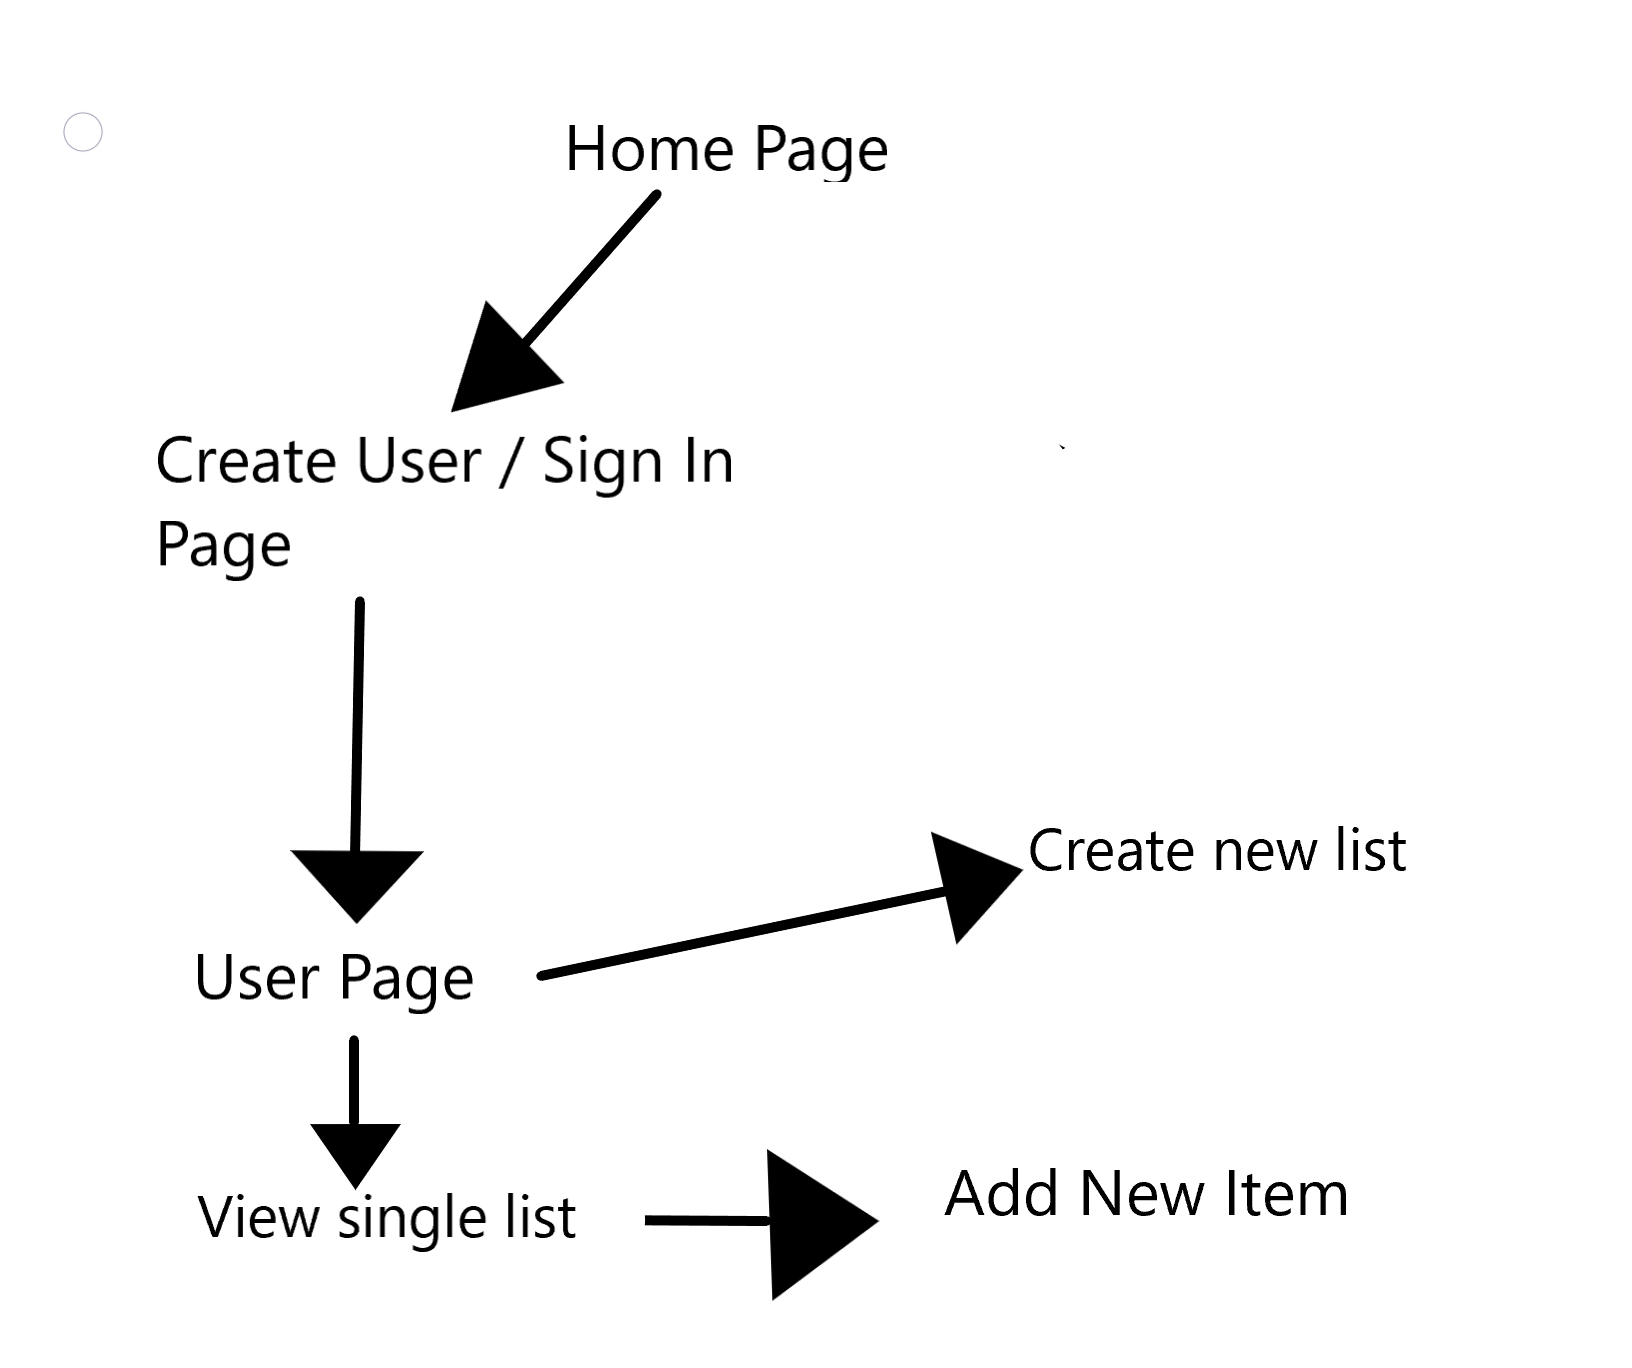
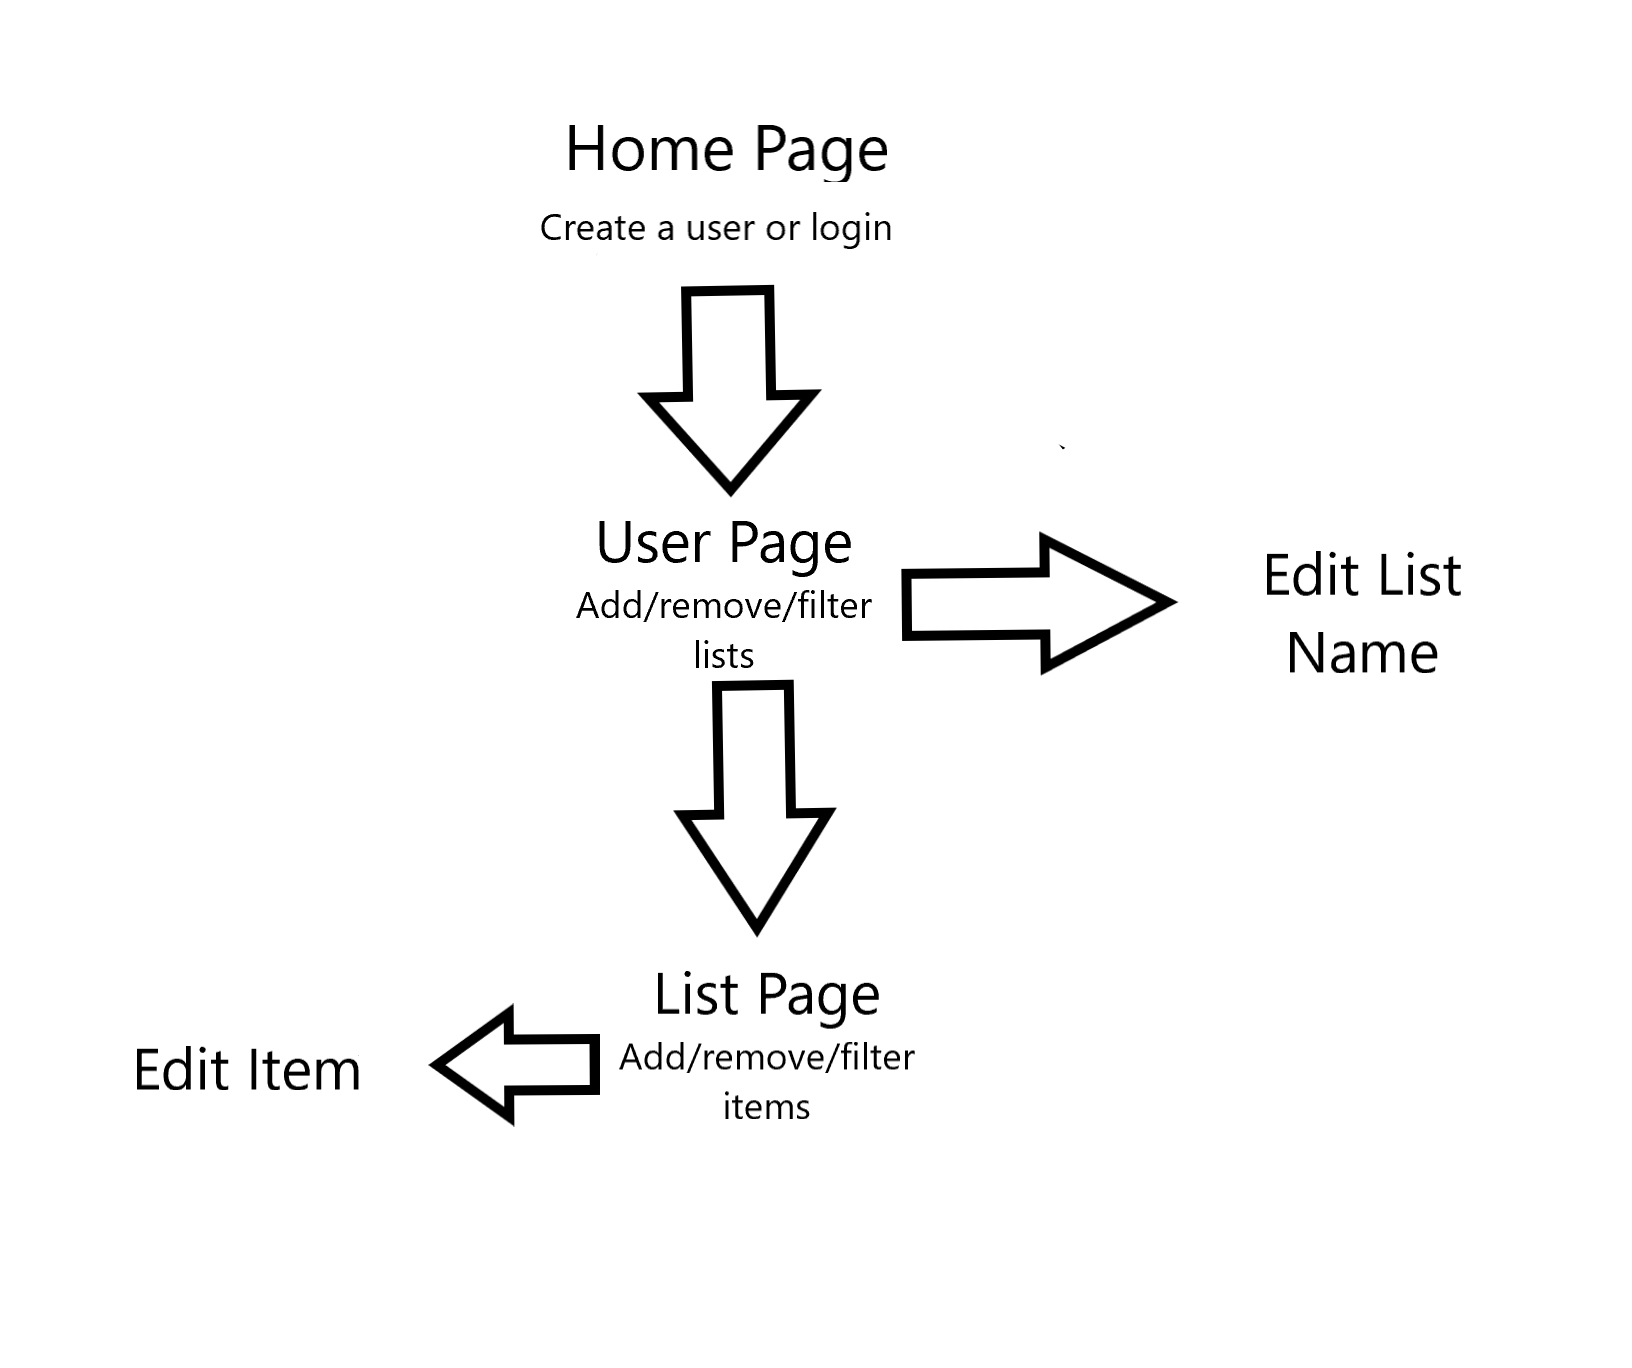
M4 Commit 5 Updated README

diff --git a/README.md b/README.md
@@ -76,10 +76,12 @@ An Example List with Embedded Items:
 
 1. as non-registered user, I can register a new account with the site.
 2. as a user, I can log in to the site.
-3. as a user, I can create a new VOD item.
-4. as a user, I can view all of the VOD items I've created in a single list
-5. as a user, I can create new VOD lists.
-6. as a user, I can view all of the lists I created in a single list.
+3. as a user, I can create and remove VOD lists.
+4. as a user, I can view all of the lists I created in a single list.
+5. as a user, I can edit the names of VOD lists and filter the lists of lists by name.
+6. as a user, I can create add and remove VOD items.
+7. as a user, I can filter a list by properties of VOD items.
+
 
 ## Research Topics
 
@@ -92,4 +94,4 @@ An Example List with Embedded Items:
 
 ## [Link to Initial Main Project File](app.js) 
 
-## Annotations / References Used
+## [Annotations / References Used](resources.txt)
